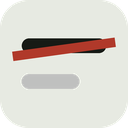
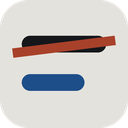
refactor

Changed region(s): [[0.0938, 0.25, 0.9062, 0.5], [0.1562, 0.5625, 0.6875, 0.7188]]

diff --git a/options/options.html b/options/options.html
@@ -16,14 +16,16 @@
   <link rel="stylesheet" href="schedule.css">
   <link rel="stylesheet" href="share.css">
   <link rel="stylesheet" href="sites.css">
+  <link rel="stylesheet" href="tips.css">
 </head>
 <body>
   <div class="shell">
         <header class="masthead">
           <div>
             <p class="eyebrow">Buzz Kill</p>
-            <h1>Read the web in your own words.</h1>
-            <p class="muted lede">Every page you open gets quietly copy-edited before you see it. Keep separate lists for separate moods, hand them to a friend as a file, and let the clock decide which one is live.</p>
+            <h1>The whole web is written from the same small dictionary.</h1>
+
+            <p class="muted lede">Headlines, launch posts, product pages: the words arrive pre-chewed, sanded down, and repeated until they mean nothing. Buzz Kill rewrites them into your words, on the way to your eyes. It runs entirely in your browser &mdash; nothing you read is sent anywhere.</p>
           </div>
           <label class="switch head-switch">
             <input type="checkbox" id="master">
@@ -50,7 +52,7 @@
               <p class="tiny muted" id="live-note" hidden></p>
 
               <div class="add-form">
-                <input type="text" id="from" placeholder="word on the page" spellcheck="false" autocomplete="off">
+                <input type="text" id="from" placeholder="word you're sick of" spellcheck="false" autocomplete="off">
                 <span class="arrow">&rarr;</span>
                 <div class="with-emoji">
                   <input type="text" id="to" placeholder="what you'd rather read" spellcheck="false" autocomplete="off">
@@ -64,7 +66,7 @@
 
               <div id="list"></div>
 
-              <p class="note tiny muted">Capitalisation follows the page: <span class="mono">trump</span> becomes <span class="mono">pig</span>, <span class="mono">Trump</span> becomes <span class="mono">Pig</span>, <span class="mono">TRUMP</span> becomes <span class="mono">PIG</span>. Tick <span class="mono">Aa</span> to match only the casing you typed, untick <span class="mono">Whole</span> to match inside longer words. Separate several replacements with commas &mdash; each page picks one at random, so <span class="mono">pig, clown, 🤡</span> keeps things fresh.</p>
+              <p class="note tiny muted">Capitalisation follows the page: <span class="mono">synergy</span> becomes <span class="mono">hot air</span>, <span class="mono">Synergy</span> becomes <span class="mono">Hot air</span>, <span class="mono">SYNERGY</span> becomes <span class="mono">HOT AIR</span>. Tick <span class="mono">Aa</span> to match only the casing you typed, untick <span class="mono">Whole</span> to match inside longer words. Separate several replacements with commas &mdash; each page picks one at random, so <span class="mono">hot air, word salad, 💨</span> keeps things fresh.</p>
             </section>
 
       <div class="side">
@@ -147,6 +149,14 @@
                   <p class="tiny muted" id="io-note">Exports are plain JSON. Lists from the old Buzz Kill add-on work too.</p>
                 </section>
 
+                <section class="panel" id="tips">
+                  <div class="panel-head">
+                    <h2>Tip</h2>
+                    <button class="ghost" id="tip-next" title="Another one">Next</button>
+                  </div>
+                  <p class="tip" id="tip-text"></p>
+                </section>
+
                 <section class="panel">
                   <div class="panel-head"><h2>Sites left alone</h2></div>
                   <div class="add-form site-form">
@@ -180,6 +190,7 @@
   <script src="schedule.js"></script>
   <script src="share.js"></script>
   <script src="sites.js"></script>
+  <script src="tips.js"></script>
   <script src="main.js"></script>
 </body>
 </html>

diff --git a/options/tips.js b/options/tips.js
@@ -1,0 +1,51 @@
+/* One tip at a time. Most of what this extension can do isn't visible from the
+   main screen, and nobody reads a feature list. */
+(function (root) {
+  "use strict";
+  var BK = root.BK;
+  var app = BK.app;
+
+  var TIPS = [
+    "Give a word several replacements, comma-separated, and each page picks one: " +
+      "synergy \u2192 hot air, word salad, \uD83D\uDCA8.",
+    "Whole words are matched by default, so a rule for \u201ccat\u201d leaves " +
+      "\u201cconcatenate\u201d alone. Untick Whole if you want it inside longer words too.",
+    "Longer rules win. With both \u201cthought leader\u201d and \u201cleader\u201d in a list, " +
+      "the phrase keeps its own replacement.",
+    "Capitalisation follows the page, so one rule covers synergy, Synergy and SYNERGY. " +
+      "Tick Aa when you want only the exact casing you typed.",
+    "Emoji work as replacements. disrupt \u2192 \uD83D\uDCA5 reads exactly as well as a word does.",
+    "Your own typing is never touched. Search boxes, comment fields and code blocks " +
+      "keep the real word, so you can still look things up.",
+    "Skipping a site covers its subdomains too: skip example.com and mail.example.com " +
+      "goes with it.",
+    "Adding a rule takes effect straight away. Editing or deleting one needs a reload, " +
+      "because the old word is already gone from the page.",
+    "Let the clock do it: office vocabulary Monday to Friday, whatever you like in the evening.",
+    "Export ticks more than one list at a time. They travel together in a single file, " +
+      "each keeping its name.",
+    "Importing never overwrites. A word you both have keeps your replacements and gains theirs.",
+    "Keep a throwaway list for one particular site, switch to it while you're reading, " +
+      "and switch back after.",
+    "The proof sheet runs the same engine the pages do. Paste real text into it to try a " +
+      "rule before you let it loose.",
+    "A rule with an empty replacement deletes the word instead of swapping it."
+  ];
+
+  var at = Math.floor(Math.random() * TIPS.length);
+
+  function render() {
+    app.el("tip-text").textContent = TIPS[at % TIPS.length];
+  }
+
+  function wire() {
+    app.el("tip-next").addEventListener("click", function () {
+      at++;
+      render();
+    });
+  }
+
+  app.register("tips", render);
+  BK.panels = BK.panels || {};
+  BK.panels.tips = { wire: wire };
+})(typeof window !== "undefined" ? window : this);

diff --git a/ui/tokens.css b/ui/tokens.css
@@ -1,16 +1,27 @@
-/* Buzz Kill UI — a copy editor's desk: sage paper, red pencil, struck words. */
+/* Buzz Kill UI.
+
+   Two accents doing one job: rust for the word being taken out, ink-blue for
+   the word you put in its place. Every strike-through on screen is rust, every
+   replacement is blue, in the popup and on the options page alike, so the
+   colour tells you which half of a swap you're looking at before you read it.
+
+   Paper is a warm newsprint grey rather than white: this is a tool for
+   rewriting what you read, and it should feel like the page, not the app. */
 
 :root {
-  --paper: #e7eae2;
-  --card: #f3f5ee;
-  --ink: #171a15;
-  --ink-soft: #5d6458;
-  --ink-faint: #8b9184;
-  --rule: #c8cec0;
-  --pencil: #b0392a;
-  --pencil-wash: rgba(176, 57, 42, 0.1);
-  --green: #3c6a4b;
-  --focus: #2f4f7a;
+  --paper: #e4e2dc;
+  --card: #f2f1ec;
+  --ink: #15171b;
+  --ink-soft: #565a61;
+  --ink-faint: #888d94;
+  --rule: #c6c4bc;
+
+  --swap: #1d4e89;                          /* the word you chose */
+  --swap-wash: rgba(29, 78, 137, 0.12);
+  --strike: #a8412a;                        /* the word it replaced */
+
+  --green: #256b5b;
+  --focus: #1d4e89;
 
   --serif: "Iowan Old Style", "Palatino Linotype", Palatino, Georgia, "Times New Roman", serif;
   --sans: ui-sans-serif, -apple-system, "Segoe UI", Roboto, "Helvetica Neue", sans-serif;
@@ -19,15 +30,18 @@
 
 @media (prefers-color-scheme: dark) {
   :root {
-    --paper: #161814;
-    --card: #1e211c;
-    --ink: #e6e9df;
-    --ink-soft: #a2a99a;
-    --ink-faint: #767d6e;
-    --rule: #333729;
-    --pencil: #e07a63;
-    --pencil-wash: rgba(224, 122, 99, 0.14);
-    --green: #7fb08d;
-    --focus: #8fb3e0;
+    --paper: #14161a;
+    --card: #1c1f24;
+    --ink: #e7e6e1;
+    --ink-soft: #a0a4ab;
+    --ink-faint: #71767d;
+    --rule: #2f333a;
+
+    --swap: #79a9e8;
+    --swap-wash: rgba(121, 169, 232, 0.16);
+    --strike: #e08a6d;
+
+    --green: #63b39c;
+    --focus: #79a9e8;
   }
 }

diff --git a/options/share.css b/options/share.css
@@ -27,8 +27,8 @@
   cursor: pointer;
 }
 
-.pick label:hover { background: var(--pencil-wash); }
-.pick input { accent-color: var(--pencil); margin: 0; flex: none; }
+.pick label:hover { background: var(--swap-wash); }
+.pick input { accent-color: var(--swap); margin: 0; flex: none; }
 .pick .name { flex: 1; overflow: hidden; text-overflow: ellipsis; white-space: nowrap; }
 
 .pick .count {
@@ -43,7 +43,7 @@
   font-size: 10px;
   letter-spacing: 0.06em;
   text-transform: uppercase;
-  color: var(--pencil);
+  color: var(--swap);
   flex: none;
 }
 
@@ -75,7 +75,7 @@
   margin: 4px 0 12px;
   padding: 12px;
   background: var(--paper);
-  border: 1px solid var(--pencil);
+  border: 1px solid var(--swap);
   border-radius: 3px;
 }
 

diff --git a/options/rules.css b/options/rules.css
@@ -6,7 +6,7 @@
   gap: 8px;
 }
 
-.add-form .arrow { color: var(--pencil); font-family: var(--mono); }
+.add-form .arrow { color: var(--swap); font-family: var(--mono); }
 .site-form { grid-template-columns: 1fr auto; }
 
 .col-legend,
@@ -28,7 +28,7 @@
 
 .rule { padding: 6px 0; border-bottom: 1px solid var(--rule); }
 .rule:last-child { border-bottom: 0; }
-.rule .arrow { color: var(--pencil); font-family: var(--mono); text-align: center; }
+.rule .arrow { color: var(--swap); font-family: var(--mono); text-align: center; }
 .rule.off input[type="text"] { opacity: 0.45; text-decoration: line-through; }
 .rule .cell { display: flex; justify-content: center; }
 .rule .switch { justify-self: start; }

diff --git a/options/proof.js b/options/proof.js
@@ -5,9 +5,10 @@
   var BK = root.BK;
   var app = BK.app;
 
-  var SAMPLE = "Reporters spent the morning outside the courthouse waiting for a statement, " +
-    "while three cable networks ran the same clip on a loop. By lunchtime the quote had been " +
-    "reprinted everywhere, and the internet had already moved on to arguing about it.";
+  var SAMPLE = "We're incredibly excited to announce a bold new chapter. By leveraging " +
+    "best-in-class technology and a relentless focus on the customer journey, we're doubling " +
+    "down on what matters most and unlocking real value at scale. This isn't just a product. " +
+    "It's a movement.";
 
   var seed = 0;
 

diff --git a/ui/emoji.css b/ui/emoji.css
@@ -59,7 +59,7 @@
   cursor: pointer;
 }
 
-.emoji-close:hover { color: var(--pencil); }
+.emoji-close:hover { color: var(--swap); }
 
 .emoji-search {
   width: 100%;
@@ -93,7 +93,7 @@
 }
 
 .emoji-tab:hover { opacity: 0.9; }
-.emoji-tab.on { filter: none; opacity: 1; background: var(--pencil-wash); }
+.emoji-tab.on { filter: none; opacity: 1; background: var(--swap-wash); }
 
 .emoji-grid {
   display: grid;
@@ -115,7 +115,7 @@
   cursor: pointer;
 }
 
-.emoji-cell:hover { background: var(--pencil-wash); }
+.emoji-cell:hover { background: var(--swap-wash); }
 .emoji-cell:focus-visible { outline: 2px solid var(--focus); }
 
 .emoji-section {

diff --git a/popup/popup.html b/popup/popup.html
@@ -37,10 +37,10 @@
 
     <section class="add">
       <div class="add-fields">
-        <input type="text" id="from" placeholder="trump" spellcheck="false" autocomplete="off">
+        <input type="text" id="from" placeholder="synergy" spellcheck="false" autocomplete="off">
         <span class="arrow">&rarr;</span>
         <div class="with-emoji">
-          <input type="text" id="to" placeholder="pig, clown" spellcheck="false" autocomplete="off">
+          <input type="text" id="to" placeholder="hot air, 💨" spellcheck="false" autocomplete="off">
         </div>
       </div>
       <button class="primary" id="add">Add rule</button>

diff --git a/ui/marks.css b/ui/marks.css
@@ -24,18 +24,18 @@
 .mark .from {
   color: var(--ink-soft);
   text-decoration: line-through;
-  text-decoration-color: var(--pencil);
+  text-decoration-color: var(--strike);
   text-decoration-thickness: 2px;
   white-space: nowrap;
   overflow: hidden;
   text-overflow: ellipsis;
 }
 
-.mark .arrow { color: var(--pencil); flex: none; }
+.mark .arrow { color: var(--strike); flex: none; }
 
 .mark .to {
   color: var(--ink);
-  background: var(--pencil-wash);
+  background: var(--swap-wash);
   padding: 1px 5px;
   border-radius: 2px;
   white-space: nowrap;

diff --git a/ui/controls.css b/ui/controls.css
@@ -49,7 +49,7 @@ button.ghost {
   padding: 4px 6px;
 }
 
-button.ghost:hover { color: var(--pencil); border-color: transparent; }
+button.ghost:hover { color: var(--swap); border-color: transparent; }
 
 label.check {
   display: inline-flex;
@@ -61,7 +61,7 @@ label.check {
   user-select: none;
 }
 
-label.check input { accent-color: var(--pencil); margin: 0; }
+label.check input { accent-color: var(--swap); margin: 0; }
 
 /* toggle switch */
 .switch { display: inline-flex; align-items: center; gap: 9px; cursor: pointer; }

diff --git a/options/proof.css b/options/proof.css
@@ -27,14 +27,14 @@ textarea#specimen:focus-visible { outline: 2px solid var(--focus); outline-offse
 .proof del {
   color: var(--ink-faint);
   text-decoration: line-through;
-  text-decoration-color: var(--pencil);
+  text-decoration-color: var(--strike);
   text-decoration-thickness: 2px;
   margin-right: 3px;
 }
 
 .proof ins {
   text-decoration: none;
-  background: var(--pencil-wash);
+  background: var(--swap-wash);
   color: var(--ink);
   padding: 0 4px;
   border-radius: 2px;

diff --git a/core/matcher.js b/core/matcher.js
@@ -15,7 +15,7 @@
     return s.replace(/[.*+?^${}()|[\]\\]/g, "\\$&");
   }
 
-  /* trump -> pig, Trump -> Pig, TRUMP -> PIG. */
+  /* synergy -> hot air, Synergy -> Hot air, SYNERGY -> HOT AIR. */
   function applyCase(source, replacement) {
     if (!replacement) return replacement;
     if (source.length > 1 && source === source.toUpperCase() && source !== source.toLowerCase()) {
